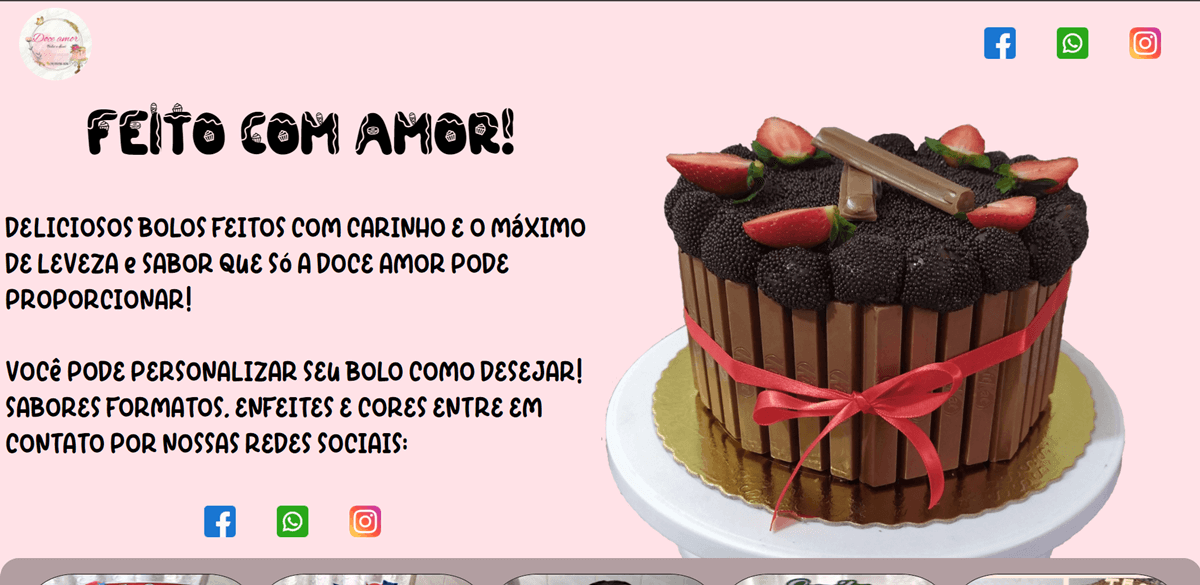
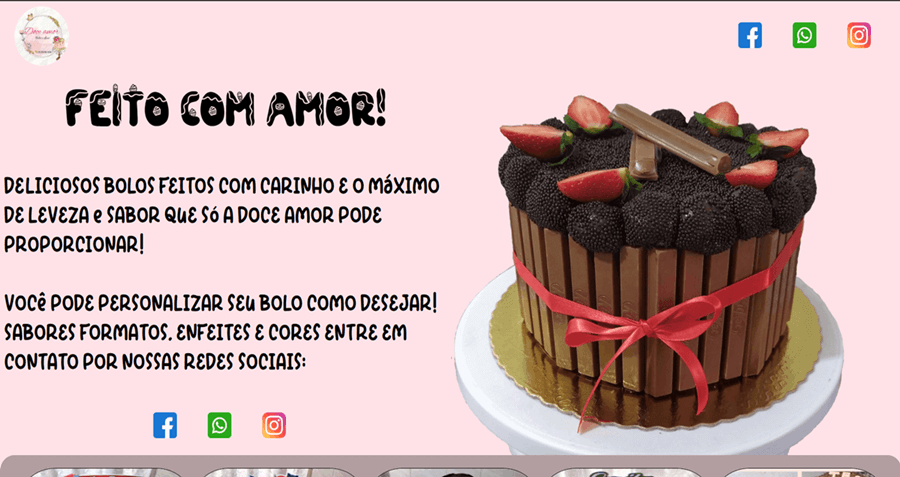
Formatando slides

diff --git a/src/components/Slides/index.jsx b/src/components/Slides/index.jsx
@@ -19,7 +19,7 @@ export const Slides = () => {
   ];
 
   const fadeProperties = {
-    duration: 3000,
+    duration: 5000,
     canSwipe: false,
   };
 
@@ -27,12 +27,12 @@ export const Slides = () => {
     <Carrousel>
         <Slide {...fadeProperties}>
           <div className="each-fade">
+            <p>First Slide</p>
             <div>
               <Image src={fadeImages[0]}
               alt="Foto de perfil"
               layout="responsive" />
             </div>
-            <p>First Slide</p>
           </div>
           <div className="each-fade">
             <p>Second Slide</p>
@@ -43,12 +43,12 @@ export const Slides = () => {
             </div>
           </div>
           <div className="each-fade">
+            <p>Third Slide</p>
             <div>
               <Image src={fadeImages[2]}
               alt="Foto de perfil"
               layout="responsive" />
             </div>
-            <p>Third Slide</p>
           </div>
         </Slide>
     </Carrousel>

diff --git a/src/components/Hero/styles.js b/src/components/Hero/styles.js
@@ -4,7 +4,7 @@ export const HeroStyled = styled.main`
   width: 100%;
   max-width: 1200px;
   margin: 0 auto;
-  height: 90vh;
+  height: 92vh;
   display: flex;
   flex-wrap: wrap;
   align-items: center;
@@ -36,12 +36,20 @@ export const TextStyled = styled.article`
   }
 
   div {
+    display: flex;
+    flex-direction: row;
+    align-items: center;
     margin: 3rem 0 0;
 
     a {
+      width: 250px;
+      display: flex;
+      flex-direction: row;
+      align-items: center;
       text-decoration: none;
+      justify-content: space-evenly;
       padding: 1rem 2.5rem;
-      background-color: var(--dark-200);
+      background-color: var(--dark);
       color: var(--light);
       border-radius: 5px;
       font-weight: 600;
@@ -54,7 +62,6 @@ export const TextStyled = styled.article`
       transition: all ease 0.5s;
 
       &:hover { // Neon
-        background-color: var(--blue);
         box-shadow: 0 0 30px var(--blue);
       }
     }

diff --git a/src/components/Hero/index.jsx b/src/components/Hero/index.jsx
@@ -1,9 +1,11 @@
 import { HeroStyled, TextStyled, ImageStyled } from "./styles";
 
 import Link from "next/link";
+import Image from "next/image";
 import Lottie from 'react-lottie';
 import programming from '../../../public/img/lottie/programming.json'
-//import programming from '../../../public/img/lottie/developer.json'
+import github from '../../../public/img/Github.svg'
+import linkedin from '../../../public/img/LinkedIn.svg'
 
 export const Hero = () => {
 
@@ -19,12 +21,14 @@ export const Hero = () => {
       <div>
         <Link href="https://www.linkedin.com/in/carlosamorim94/" >
           <a>
+            <Image src={linkedin} alt="LinkedIn icon"/>
             Linkedin
           </a>
         </Link>
 
         <Link href="https://github.com/CarlosAmorim94" className="button">
           <a>
+            <Image src={github} alt="GitHub icon"/>
             GitHub
           </a>
         </Link>
